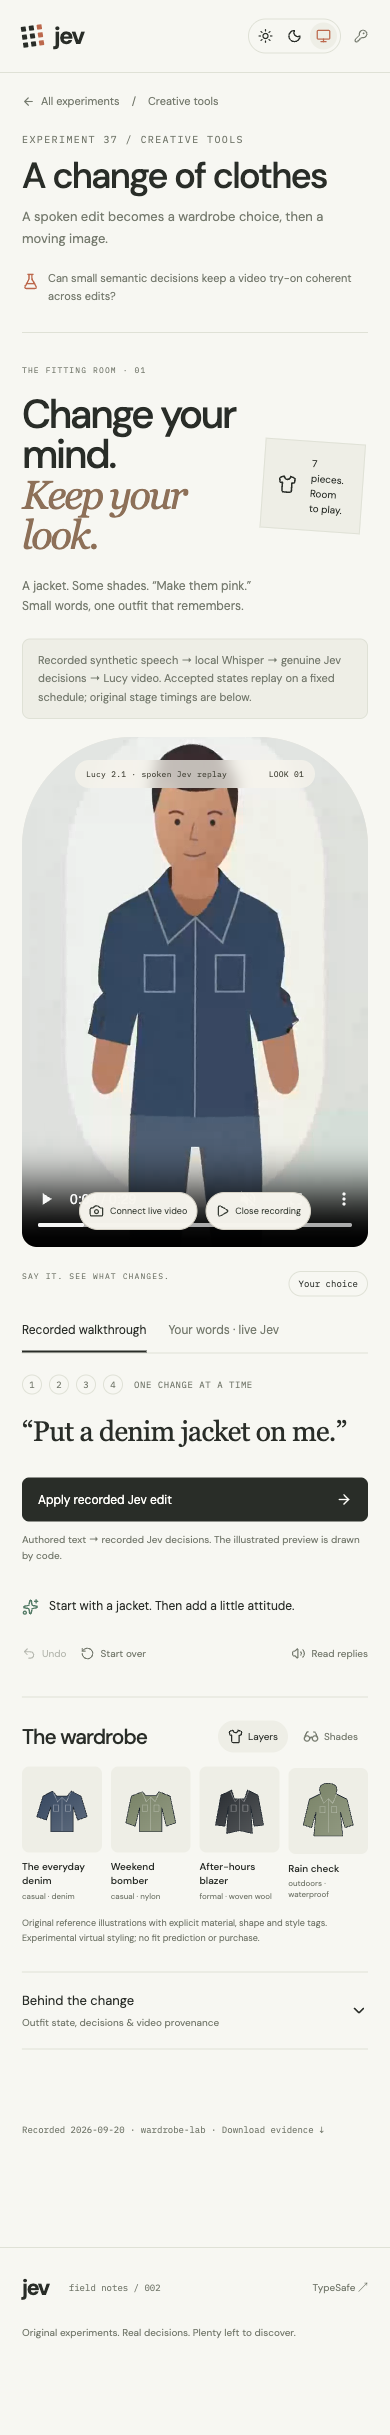
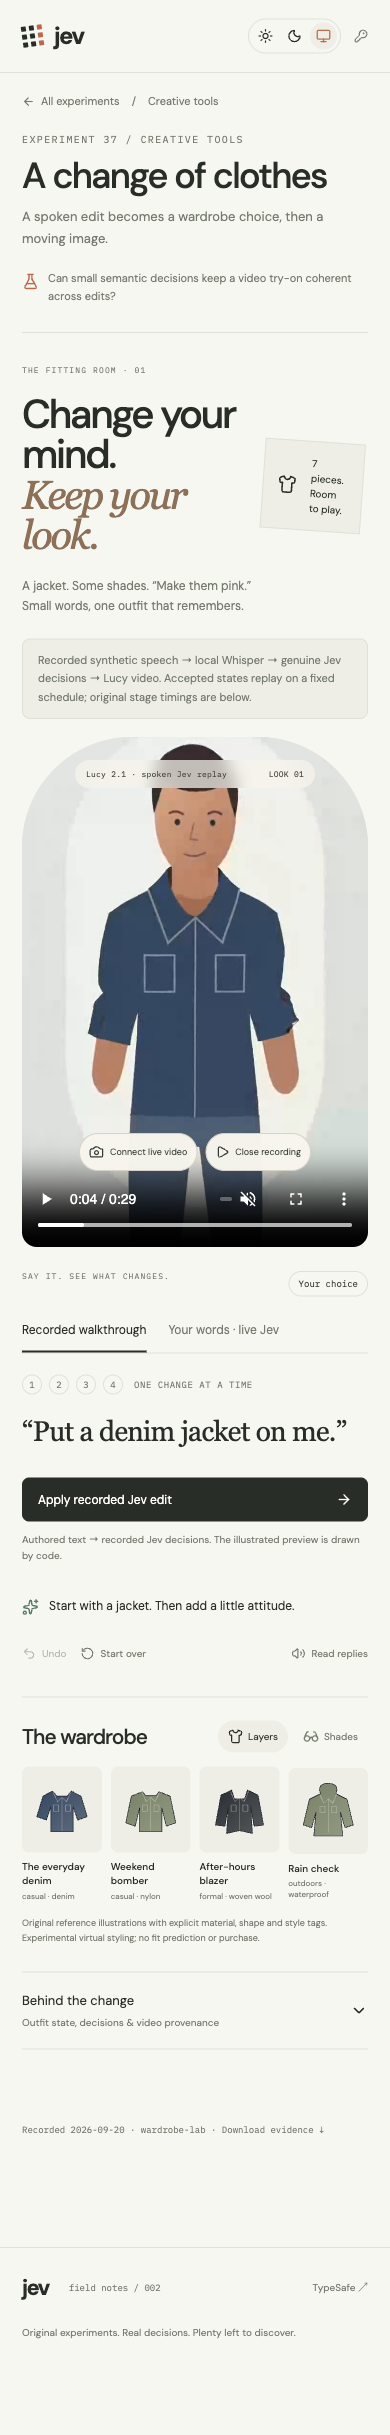
Record final canonical deployment and playback checks

Changed region(s): [[0.1846, 0.4682, 0.8, 0.5306]]

diff --git a/jev-experiments/quality-and-simulation-review/README.md b/jev-experiments/quality-and-simulation-review/README.md
@@ -53,7 +53,7 @@ bun run build
 
 Strict review validation passes for 33/33 original experiments. The integrated app passes 168 tests with 148,041 assertions across 28 files and a production build, including the live-world implementations. The eight recently integrated routes loaded at 390 px without overflow or page exceptions; a follow-up with the correct music selector confirmed all 14 arrangements loaded. Detailed interaction checks are recorded in each experiment folder. The independent timing-sketch review caught restoration bugs and is preserved with follow-up notes rather than removed.
 
-The new components load on demand, reducing initial JavaScript from about 1,078 KB to 853 KB before compression. Sixteen literal credential values read privately from local configuration had no matches in 463 changed/new source files and 734 built files at the expanded scan point. [SECURITY.md](SECURITY.md) records the bounded key and attack-path review; [security-scan.json](security-scan.json) records the latest literal-scan result. BYOK isolation and missing-key behavior have dedicated tests; this is a bounded key-exposure check, not an assurance that all possible security issues are absent. Generated library copies, build output, caches and recording logs are excluded from the intended commit.
+The new components load on demand, reducing initial JavaScript from about 1,078 KB to 853 KB before compression. Sixteen literal credential values read privately from local configuration had no matches in 465 changed/new source files and 734 built files at the expanded scan point. [SECURITY.md](SECURITY.md) records the bounded key and attack-path review; [security-scan.json](security-scan.json) records the latest literal-scan result. BYOK isolation and missing-key behavior have dedicated tests; this is a bounded key-exposure check, not an assurance that all possible security issues are absent. Generated library copies, build output, caches and recording logs are excluded from the intended commit.
 
 ## Deployed interaction checks
 

diff --git a/jev-experiments/quality-and-simulation-review/SECURITY.md b/jev-experiments/quality-and-simulation-review/SECURITY.md
@@ -2,7 +2,7 @@
 
 The new app and API code keeps owner credentials out of browser imports, recorded evidence and API fallback paths. Visitors supply their own keys. Existing gateway tests verify concurrent key isolation, missing-key rejection, input bounds, provider-error sanitation and retry behavior. The new fal endpoint accepts only the fixed wardrobe model, uses only the supplied key, returns a short-lived model token with `Cache-Control: no-store`, and sanitizes upstream failures.
 
-The local release scan examined 463 changed/new source files and 734 built files against 16 literal credential values privately read from the user's shell configuration and local Vercel CLI authentication file. It found zero matching files and no new binary at least 2MB. Run `python3 jev-experiments/quality-and-simulation-review/release-check.py` to repeat the bounded check. Values are never printed or stored by the scanner. The final run's counts may increase as documentation and code are completed.
+The local release scan examined 465 changed/new source files and 734 built files against 16 literal credential values privately read from the user's shell configuration and local Vercel CLI authentication file. It found zero matching files and no new binary at least 2MB. Run `python3 jev-experiments/quality-and-simulation-review/release-check.py` to repeat the bounded check. Values are never printed or stored by the scanner. The final run's counts may increase as documentation and code are completed.
 
 Browser game and brush receipts contain input, choices and normalized responses, never HTTP authorization headers. The local recording loaders read credentials only in recording CLIs. No credential loader is imported by a browser component or deployed request handler. A scan of new JSON and JSONL artifacts found no token or authorization fields. Generated JSON imports are reconstructed from reviewed JSONL, not private local state.
 

diff --git a/jev-experiments/quality-and-simulation-review/NOTES.md b/jev-experiments/quality-and-simulation-review/NOTES.md
@@ -115,3 +115,5 @@ Read current React UI, historical browser upload/worker/recipe, Python compositi
 - Published8c208b5to the canonical app via clean Git build; deploymentdpl_7PgjRdZoZacfULxwShCZ2PWTUG9NisREADY. All9HTTP/API checks pass, both served media SHA256 values match exact reviewed files, and actual app video plays/seeks forward and backward with a finite29.954srange. Post-deployment evidence files are committed separately from that application revision. JudgeBench recording and its verification/report completion process remain alive; full repeatability results are not claimed complete.
 
 - Final playback-toolbar spacing check: native video controls remain visible at390px; computed gap from toolbar to stage bottom is76px, no horizontal overflow. Root inspected the focused screenshot. Fresh TypeScript/Vite build passed; the earlier168-test suite covers behavior, while this final change only adds a playback class and its CSS spacing.
+
+- Final application revision0584428isREADYon canonical deploymentdpl_DXxfv26m3gKSJy2C8pAhaR5Pzz69. Rechecked all9routes/API boundaries and2exact media hashes, all passed. Canonical mobile player now has76pxclearance above native controls and finite29.954sduration; screenshot/evidence updated. The following commit changes verification documents and screenshots only. Ongoing JudgeBench event collection remains outside this release snapshot.
